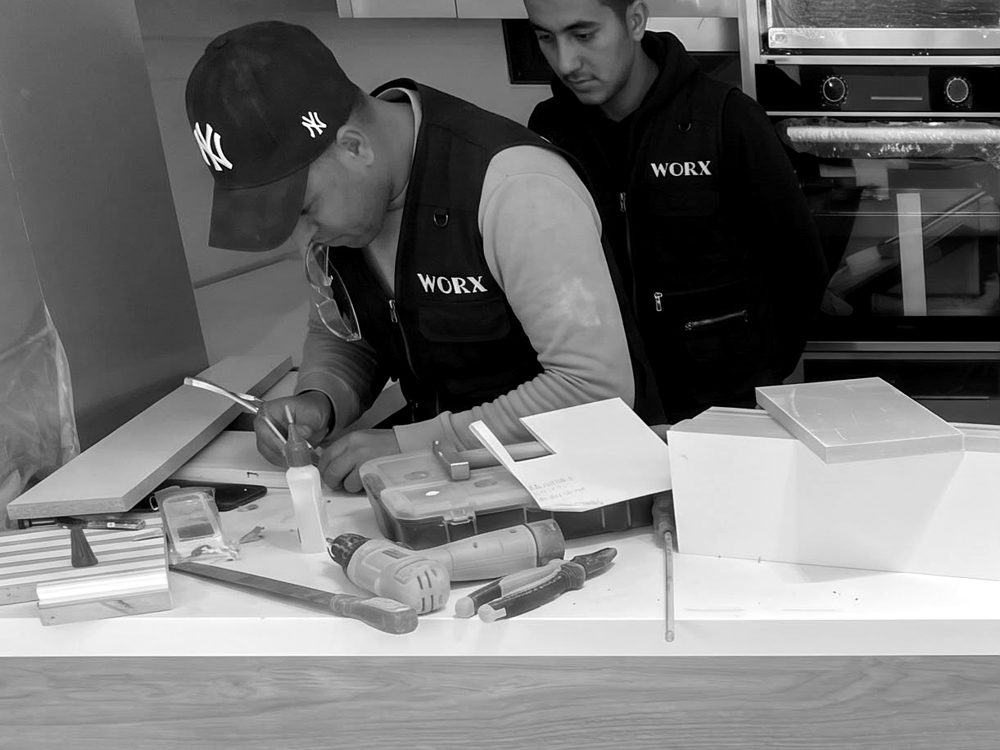
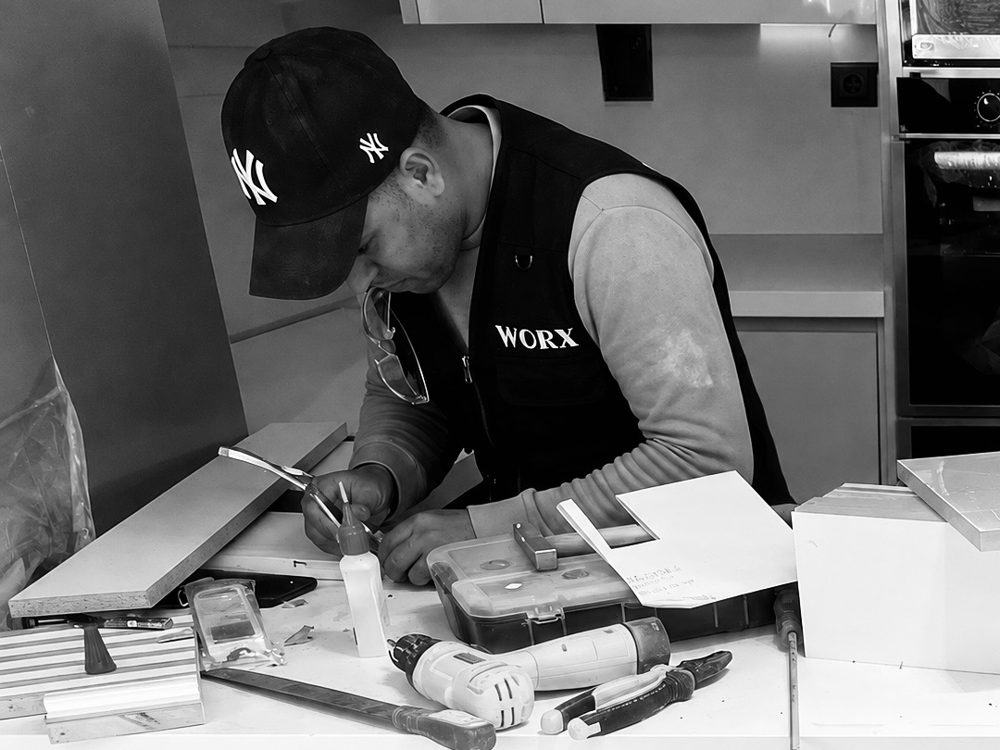
Swap Licensed Contractors card photo for new black-and-white shot
Claude-Session: https://claude.ai/code/session_01Fo3Fd4z3byYdeJiPRSW5qx

diff --git a/ar.html b/ar.html
@@ -77,7 +77,7 @@
         </div>
         <div class="cards">
           <article class="card">
-            <img src="assets/img/team-workshop-bw.jpg" alt="اثنان من فنيي WORX يجمّعان قطع المطبخ على سطح العمل" loading="lazy">
+            <img src="assets/img/team-workshop-bw.jpg" alt="فني من WORX يجمّع قطع المطبخ على سطح العمل" loading="lazy">
             <div class="card__body">
               <h3>مقاولون مرخّصون</h3>
               <p>كشركة تلتزم بتقديم أفضل خدمة، يهمنا أن نقدم جودة تنفيذ لا مثيل لها في كل مشروع. نحن معتمدون ومرخّصون ومؤمَّن علينا، وبخبرتنا وتخصصنا نقدم لمشروعك كل الدعم الذي يحتاجه.</p>

diff --git a/index.html b/index.html
@@ -76,7 +76,7 @@
         </div>
         <div class="cards">
           <article class="card">
-            <img src="assets/img/team-workshop-bw.jpg" alt="Two WORX technicians assembling kitchen parts at the counter" loading="lazy">
+            <img src="assets/img/team-workshop-bw.jpg" alt="WORX technician assembling kitchen parts at the counter" loading="lazy">
             <div class="card__body">
               <h3>Licensed Contractors</h3>
               <p>As a company dedicated to providing great service, it is important to us to deliver unparalleled workmanship on every assignment. We are accredited, licensed, bonded, and insured. With experience and expertise, we provide the support your project needs.</p>

diff --git a/tools/build_ar.py b/tools/build_ar.py
@@ -52,7 +52,7 @@ PAIRS = [
     # Why WORX
     ('<h2>Why WORX?</h2>', '<h2>لماذا WORX؟</h2>'),
     ('From design to delivery, your satisfaction is our top priority.', 'من التصميم حتى التسليم، رضاك هو أولويتنا الأولى.'),
-    ('alt="Two WORX technicians assembling kitchen parts at the counter"', 'alt="اثنان من فنيي WORX يجمّعان قطع المطبخ على سطح العمل"'),
+    ('alt="WORX technician assembling kitchen parts at the counter"', 'alt="فني من WORX يجمّع قطع المطبخ على سطح العمل"'),
     ('aria-label="WORX team members installing a kitchen sink"', 'aria-label="فريق WORX أثناء تركيب حوض مطبخ"'),
     ('<strong>Our team at work</strong><span>Installation in progress</span>', '<strong>فريقنا أثناء العمل</strong><span>أعمال التركيب</span>'),
     ('<h3>Licensed Contractors</h3>', '<h3>مقاولون مرخّصون</h3>'),
